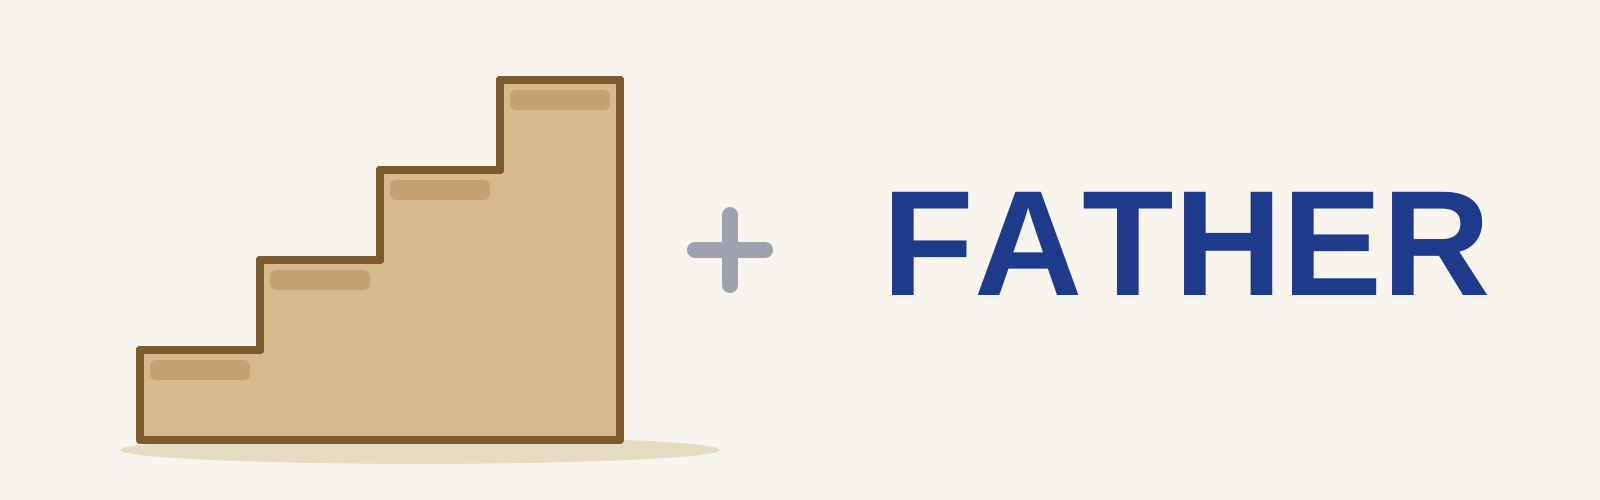
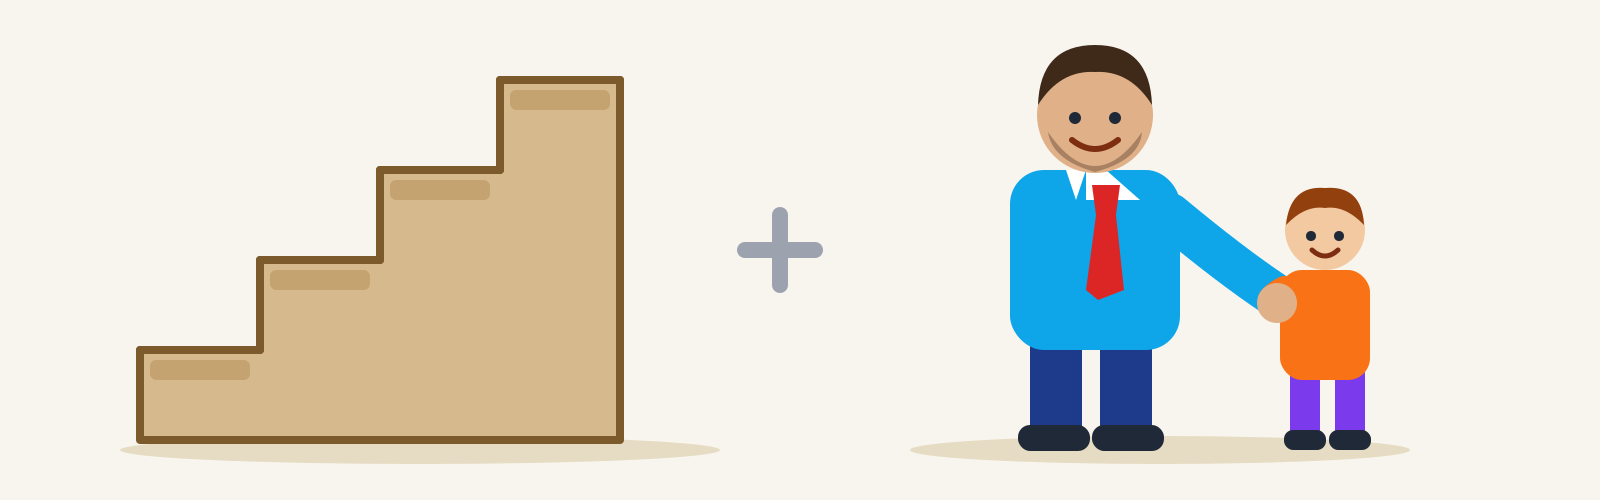
Added more puzzles

Changed region(s): [[0.4062, 0.09, 0.9375, 0.93]]

diff --git a/app.py b/app.py
@@ -30,8 +30,12 @@ PUZZLES = { # Server date is used
     "2026-11-05": {"image": "2026-11-05.png", "answer": "Plot Twist"},
     "2026-11-06": {"image": "2026-11-06.png", "answer": "Internet Explorer"},
     "2026-11-07": {"image": "2026-11-07.png", "answer": "Try to understand"},
+    "2026-11-08": {"image": "2026-11-07.png", "answer": "Condescending"},
+    "2026-11-09": {"image": "2026-11-07.png", "answer": "Fall in line"},
+    "2026-11-10": {"image": "2026-11-07.png", "answer": "one step forward two steps back"},
+    "2026-11-11": {"image": "2026-11-07.png", "answer": "For instance"},
 }
-FALLBACK_DATE = "2026-10-29"  # used if today has no puzzle yet
+FALLBACK_DATE = "2026-11-02"  # used if today has no puzzle yet
 # -------------------------------------------------------------------------
 
 CORRECT = "ok"          # green
